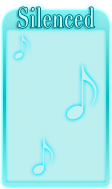
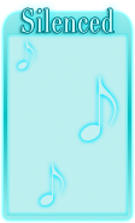
Resize sanct/singu/silence overlay (proper redesign later)

diff --git a/views/Match.js b/views/Match.js
@@ -240,7 +240,7 @@ function startMatch(game, foeDeck, spectate) {
 		playerOverlay[j].height = 80;
 		sabbathOverlay[j].className = "sabbath";
 		sabbathOverlay[j].style.display = "none";
-		handOverlay[j].position.set(j ? 9 : 774, j ? 99 : 300);
+		handOverlay[j].position.set(j ? 3 : 763, j ? 72 : 300);
 		sacrificeOverlay[j].position.set(j ? 800 : 0, j ? 7 : 502);
 		(function(_j) {
 			for (var i = 0;i < 8;i++) {
